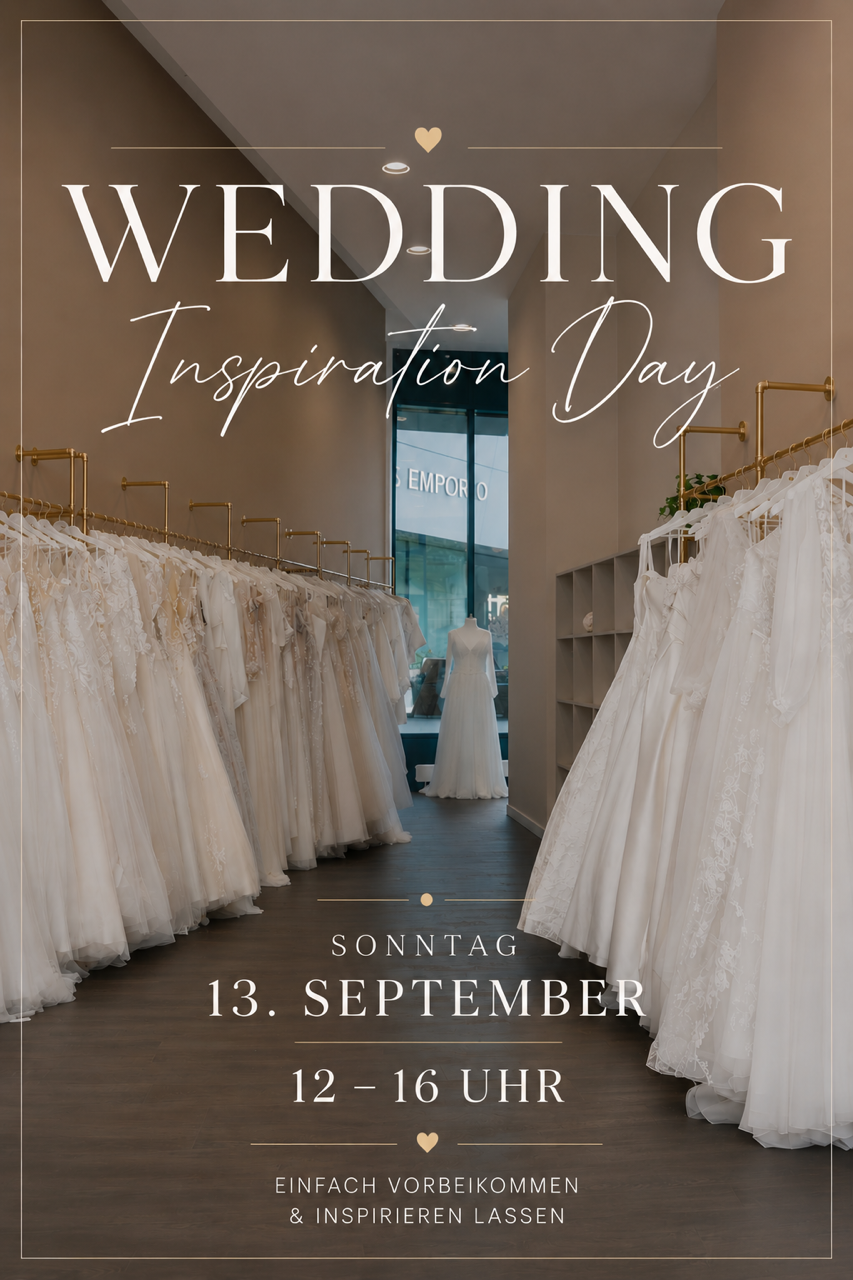
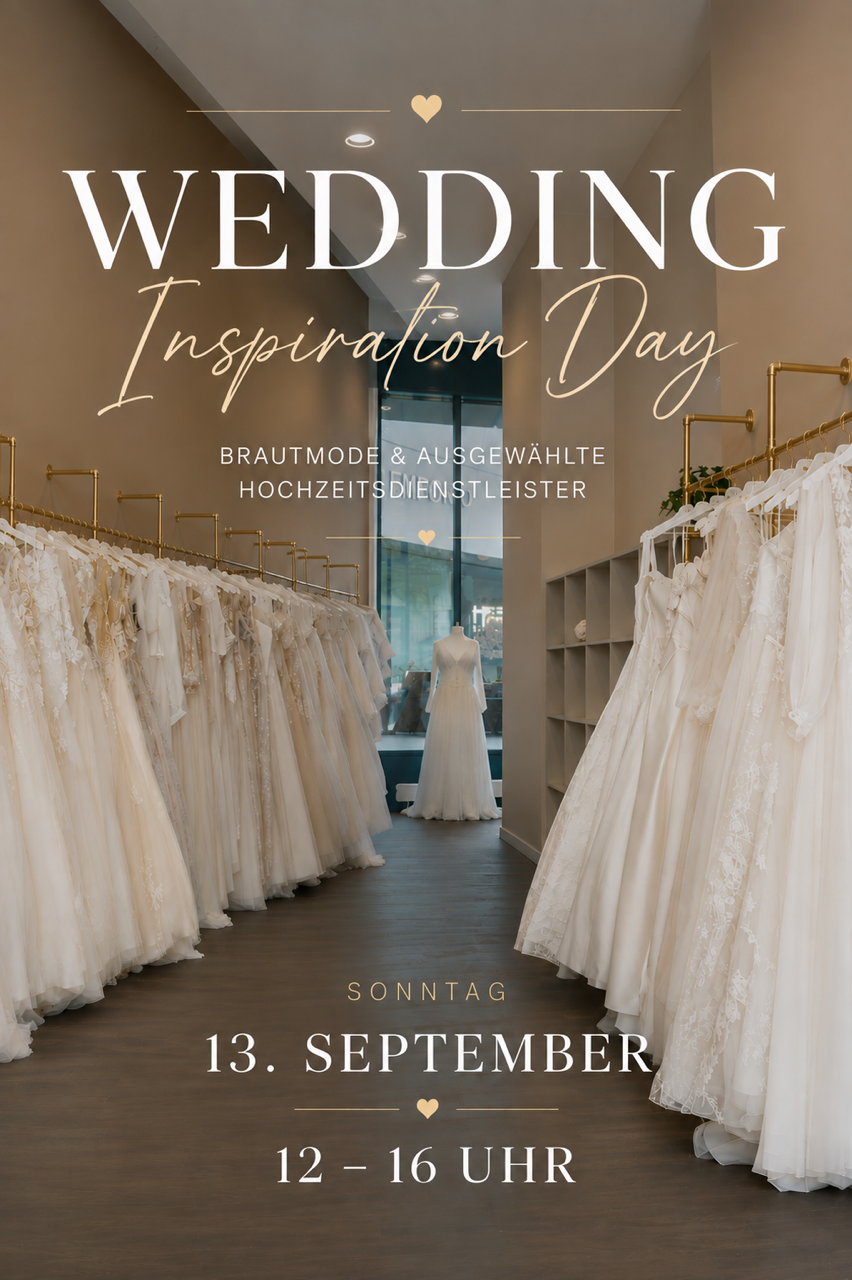
Wedding Inspiration Day Popup: optimiertes JPEG (123 KB statt 1,4 MB), randlos

Changed region(s): [[0.0, 0.0625, 1.0, 0.9688], [0.0, 0.0, 0.061, 0.0625]]

diff --git a/sale-popup.js b/sale-popup.js
@@ -18,17 +18,20 @@ document.addEventListener('DOMContentLoaded', function() {
 	">
 		<div id="sale-popup" style="
 			position: relative;
-			background-color: white;
-			border-radius: 12px;
-			width: 90%;
-			max-width: 600px;
+			background: none;
+			border-radius: 0;
+			width: auto;
+			max-width: min(90vw, calc(90vh * 853 / 1280));
 			max-height: 90vh;
-			overflow-y: auto;
+			overflow: hidden;
 			opacity: 0;
 			transition: opacity 0.7s ease;
-			box-shadow: 0 20px 25px rgba(0, 0, 0, 0.15);
+			box-shadow: 0 20px 40px rgba(0, 0, 0, 0.4);
+			padding: 0;
+			margin: 0;
+			line-height: 0;
 		">
-			<img src="sites/assets/sales/sales_juli_2026.png" alt="Sale" style="width: 100%; height: auto; display: block;">
+			<img src="sites/assets/wedding-inspiration-day.jpg" alt="Wedding Inspiration Day – 13. September, 12–16 Uhr" style="width: 100%; height: auto; display: block; border-radius: 0; margin: 0; padding: 0;">
 		</div>
 		
 		<button id="sale-popup-close" style="

diff --git a/index.html b/index.html
@@ -72,6 +72,9 @@
 	<!-- Fixed CTA Bar -->
 	<script src="fixed-cta.js?v=20260802" data-cta-delay="3600"></script>
 
+	<!-- Wedding Inspiration Day Popup -->
+	<script src="sale-popup.js?v=20260811"></script>
+
 	<link rel="stylesheet" href="site/templates/scripts/fancybox-master/dist/jquery.fancybox.css?v=20260802" type="text/css" media="screen">
 
 	<link rel="apple-touch-icon" sizes="180x180" href="site/templates/styles/fav/apple-touch-icon.png">
